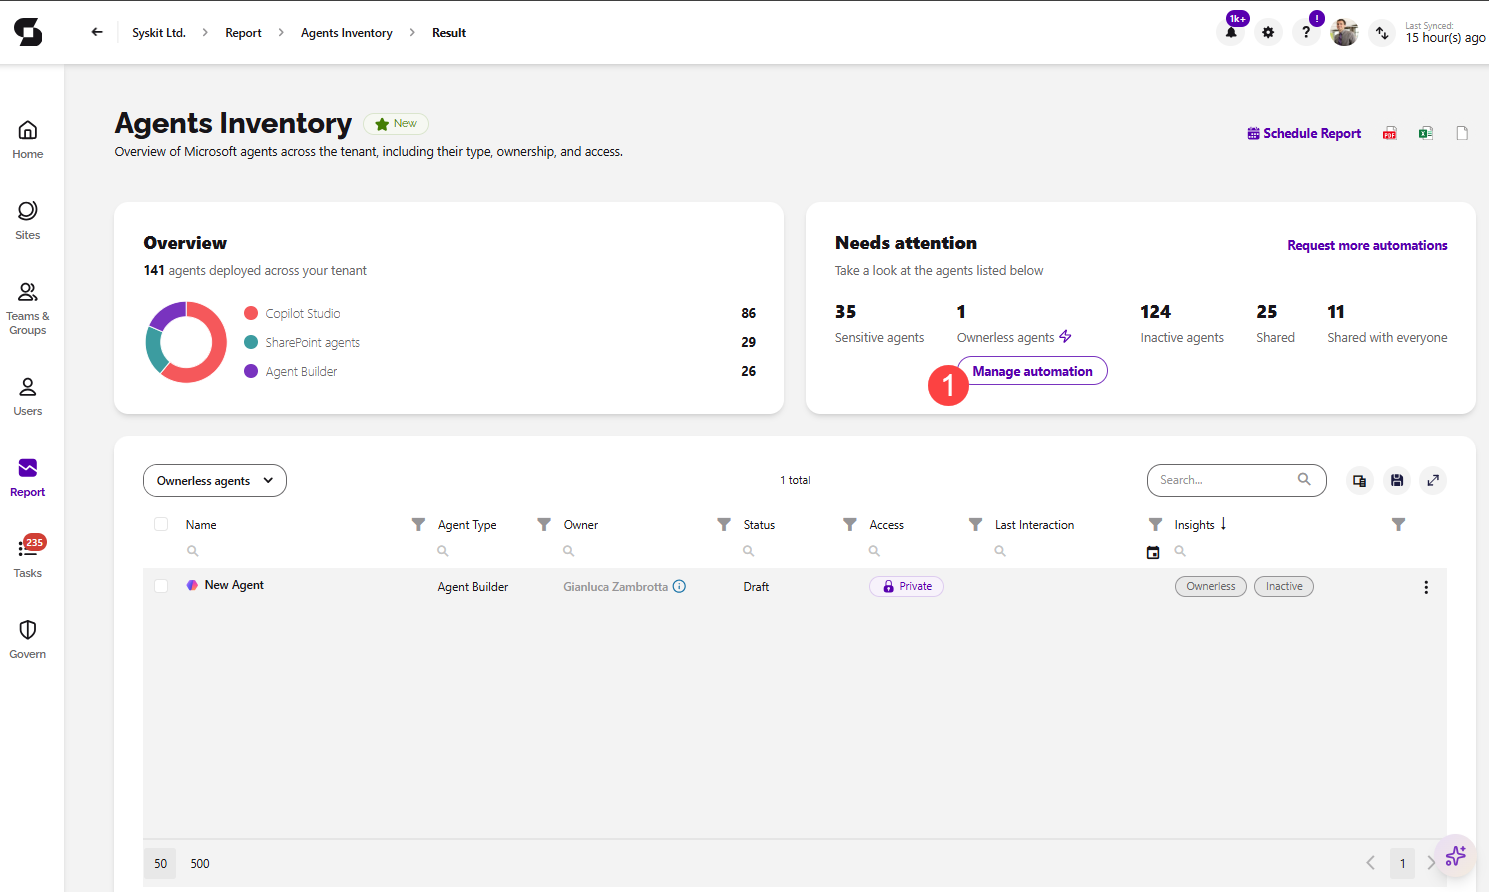
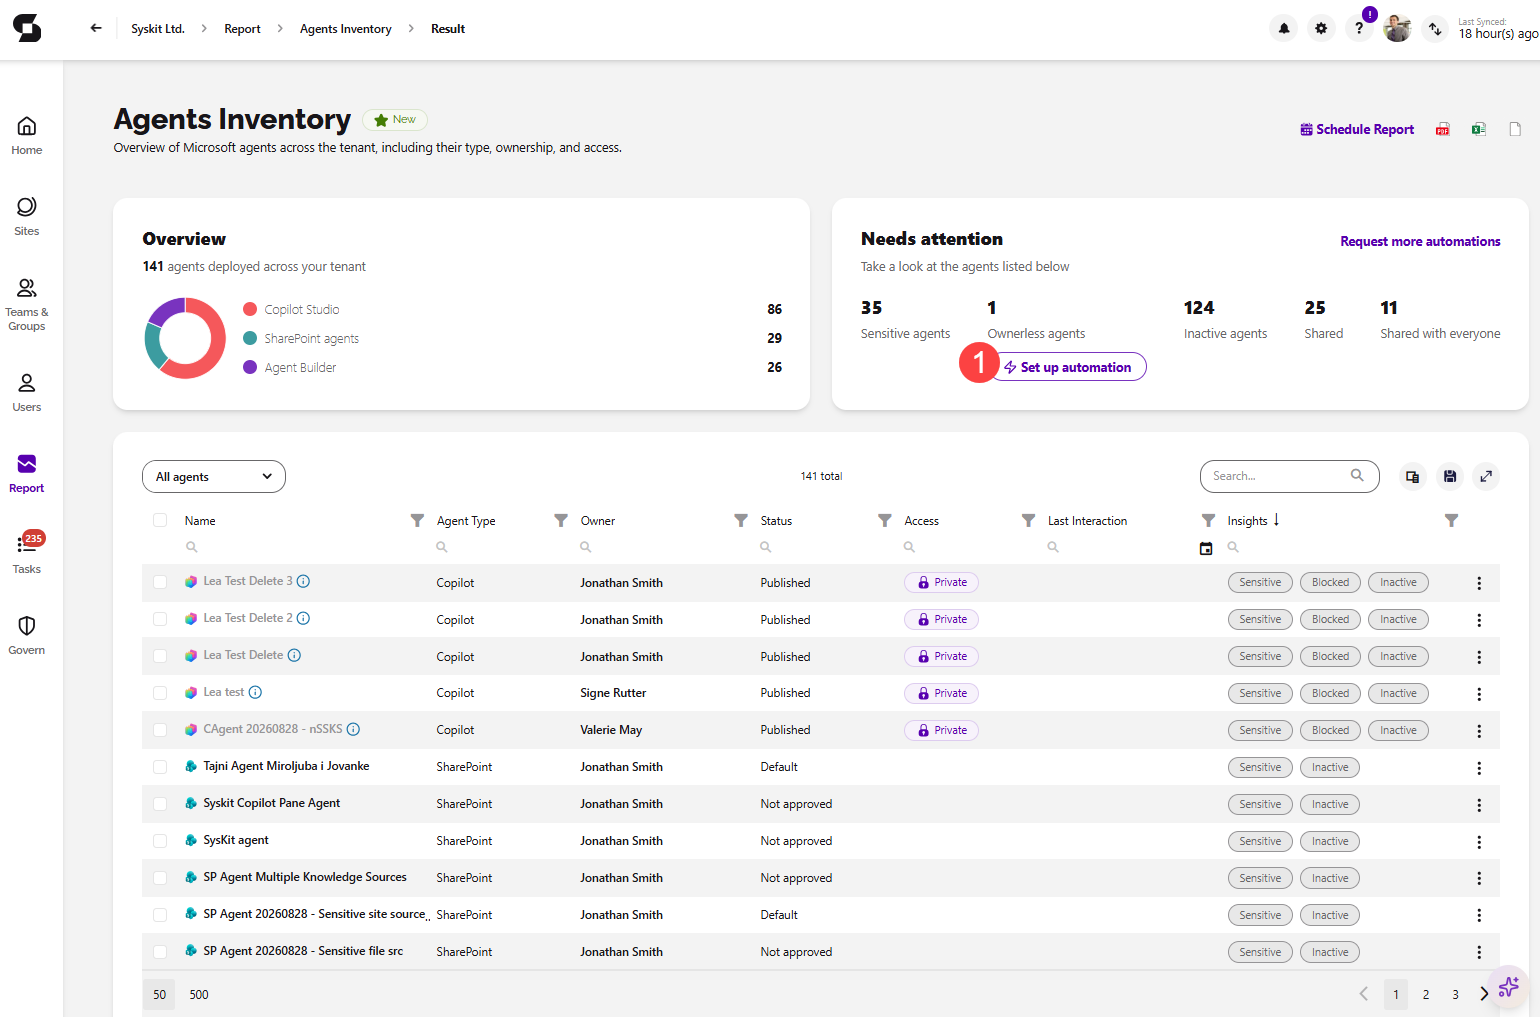
updates

diff --git a/docs/ai-agents-and-apps/ai-agents-and-apps-actions.md b/docs/ai-agents-and-apps/ai-agents-and-apps-actions.md
@@ -6,12 +6,13 @@ description: This article provides information about the actions you can take on
 
 Through Syskit Point, you can get a unified inventory of the Microsoft agents and Entra apps that can access your Microsoft 365 data. 
 
-To help you manage them, the following actions are available in Syskit Point:
+To help you manage them, the following actions and reports are available in Syskit Point:
 
 * **Agent actions**
   * [Block and Unblock](#block-and-unblock)
   * [Reassign](#reassign)
   * [Delete](#delete-agent)
+* **Agent reports**
   * [Knowledge Sources](#knowledge-sources)
   * [Tools](#tools)
   * [Topics](#topics)
@@ -20,8 +21,13 @@ To help you manage them, the following actions are available in Syskit Point:
 * **App actions**
   * [Block sign-in and Allow sign-in](#block-sign-in-and-allow-sign-in)
   * [Delete](#delete-app)
+* **App reports**
+  * [App Activity](#app-activity)
+  * [App Configuration Changes](#app-configuration-changes)
 
-These actions help you stop users from using agents, stop apps from signing in to your tenant, resolve ownerless agents by assigning a new owner, review what your agents use and how they are used, and remove agents and apps that are no longer needed.
+**Actions make changes** to your agents and apps in Microsoft 365, while **reports open a detailed view** of the selected agents or apps without changing anything.
+
+These actions and reports help you stop users from using agents, stop apps from signing in to your tenant, resolve ownerless agents by assigning a new owner, review what your agents and apps use and how they are used, and remove agents and apps that are no longer needed.
 
 * [Take a look at the Agents Inventory Report article for more details on the agents report.](ai-agents-and-apps-agents-inventory.md)
 * [Take a look at the Apps Inventory Report article for more details on the apps report.](ai-agents-and-apps-apps-inventory.md)
@@ -100,6 +106,10 @@ Once you generate the Agents Inventory report:
 ![AI Agents - Delete](../../static/img/ai-agents-apps-delete-agent.png)
 
 ![AI Agents - Delete Confirmation Screen](../../static/img/ai-agents-apps-delete-agent-action.png)
+
+## Agent Reports
+
+Agent reports can be opened from the **Agents Inventory** report by selecting one or more agents. They show more details about the selected agents and don't make any changes to them.
 
 ### Knowledge Sources
 
@@ -234,6 +244,50 @@ When you delete an app from the app details screen, you are returned to the Apps
 ![Entra Apps - Delete](../../static/img/ai-agents-apps-delete.png)
 
 ![Entra Apps - Delete Confirmation Screen](../../static/img/ai-agents-apps-delete-app-action.png)
+
+## App Reports
+
+App reports can be opened from the **Apps Inventory** report by selecting one or more apps. They show more details about the selected apps and don't make any changes to them.
+
+### App Activity
+
+:::info
+**The App Activity and App Configuration Changes reports** are available in the Security & Compliance plan and higher tiers. See the [pricing page](https://www.syskit.com/products/point/pricing/) for more details.
+:::
+
+The App Activity action opens the **App Activity** report, which shows everything the selected apps did, including the files they accessed, who they acted for, and sign-ins to them, for example, **Modified file** or **User logged in**.
+
+Once you generate the Apps Inventory report, **select one or more apps** and **click the App Activity action (1)** to open the report. The report opens on the **Last 30 Days** view, and for each activity, you can see its:
+
+* **Date**
+* **Activity**
+* **App**
+* **Performed By**
+* **Workload**
+* **Item**
+* **IP Address**
+* **Additional Info**
+
+Expanding a row shows more details about the activity. The App Activity report can be **exported as XLSX and CSV files**. There is also the **option to schedule the report**.
+
+![Entra Apps - App Activity](../../static/img/ai-agents-apps-activity.png)
+
+### App Configuration Changes
+
+The App Configuration Changes action opens the **Entra App Configuration Changes** report, which shows the changes made to the selected apps in Microsoft Entra, including permissions, consent, credentials, and owners, for example, **Updated service principal**.
+
+Once you generate the Apps Inventory report, **select one or more apps** and **click the App Configuration Changes action (1)** to open the report. For each change, you can see its:
+
+* **Date**
+* **Activity**
+* **App**
+* **Performed By**
+* **IP Address**
+* **Additional Info**
+
+Expanding a row shows more details about the change. The Entra App Configuration Changes report can be **exported as XLSX and CSV files**. There is also the **option to schedule the report**.
+
+![Entra Apps - App Configuration Changes](../../static/img/ai-agents-apps-configuration-changes.png)
 
 ## Related Articles
 

diff --git a/docs/ai-agents-and-apps/ai-agents-and-apps-agents-inventory.md b/docs/ai-agents-and-apps/ai-agents-and-apps-agents-inventory.md
@@ -26,7 +26,8 @@ Once the report is generated successfully, two tiles at the top summarize the st
 * **The Needs Attention tile** highlights the agents that may require action, with numbers showing the amount for the following:
   * **Sensitive agents** - agents that reference sensitive content through their knowledge sources (see the [Sensitive Agents](#sensitive-agents) section below)
   * **Ownerless agents** - agents that do not have an active owner
-    * Clicking **Manage automation** lets you set up the [Ownerless agents automation](ai-agents-and-apps-automation.md), which automatically assigns a new owner to ownerless agents
+    * Clicking **Set up automation** lets you set up the [Ownerless agents automation](ai-agents-and-apps-automation.md), which automatically assigns a new owner to ownerless agents
+    * If the automation is already turned on, the button is called **Manage automation**
   * **Shared** - agents shared with at least one other person
   * **Shared with everyone** - agents shared with everyone in the organization
   * **Inactive agents** - agents that are no longer being used
@@ -106,6 +107,12 @@ The agent details screen contains the following tiles:
 * **The Insights tile** shows the same highlights as the **Insights** column on the Agents Inventory report, with slightly more detail, showcasing any potential issues
 * **The Active users** tile shows the number and list of active users that have utilized the agent in the last 30 days
 * **The Knowledge Sources tile** lists the knowledge sources the agent uses, with the **Name**, **Type**, **Location**, and **Sensitivity Label** of each source.
+* **The Tools tile** lists the tools the agent uses, with the **Tool**, **Type**, and whether the tool is **Enabled**
+  * The tile header shows the number of tools and how many of them are enabled
+  * Clicking **Explore** opens the full list of the agent's tools
+* **The Topics tile** lists the topics the agent uses, with the **Topic**, **Trigger**, **Type**, and whether the topic is **Enabled**
+  * The tile header shows the number of topics and how many of them are custom
+  * Clicking **Explore** opens the full list of the agent's topics
 
 
 From the agent details screen, you can also complete the **Block** or **Unblock**, **Reassign**, and **Delete** actions for that agent.

diff --git a/docs/ai-agents-and-apps/ai-agents-and-apps-automation.md b/docs/ai-agents-and-apps/ai-agents-and-apps-automation.md
@@ -37,11 +37,11 @@ The Ownerless agents automation is set up from the [Agents Inventory](ai-agents-
   * **Select the AI Agents category in the filter** in the upper left corner
   * **Click the Agents Inventory report tile** to open the report
 
-Once the report opens, the **Needs attention** tile shows the number of ownerless agents, **click Manage automation (1)** to start.
+Once the report opens, the **Needs attention** tile shows the number of ownerless agents, **click Set up automation (1)** to start. If the automation is already turned on, the button is called **Manage automation**.
 
 ![AI & Apps Automation - Ownerless Agents](../../static/img/ai-agents-and-apps-ownerless-automation.png)
 
-After selecting Manage automation, the **information dialog** opens, providing more details on ownerless agents and leaving you with the following options:
+After selecting Set up automation, the **information dialog** opens, providing more details on ownerless agents and leaving you with the following options:
 
 * **Turning on the Automation toggle (1)** lets Syskit Point assign a new owner to ownerless agents for you automatically
   * Once the automation is turned on, the **Automated** label is shown next to the dialog title, and **Last run** shows when the automation last ran
@@ -60,7 +60,7 @@ After selecting Manage automation, the **information dialog** opens, providing m
 :::info
 
 **Please note:**
-* New owners receive **one email per previous owner**, listing the agents they received.
+* New owners receive **one email per previous owner**, listing the agents they now own.
 * **If there's nobody to assign**, the agent stays ownerless and needs to be resolved manually.
 
 :::
@@ -95,6 +95,8 @@ The report grid shows the following columns:
 * **Resolved on** - the date and time when the agent was resolved
 * **Method** - whether the agent was resolved **Automated** or **Manual**
 * **Resolved by** - Syskit Point for agents resolved by the automation, or the user who resolved the agent manually
+
+The additional **Error** column, available in the column chooser, explains why an action on an agent could not be completed.
 
 The Ownerless agents history report can be **exported as PDF, CSV and XLSX files**.
 
